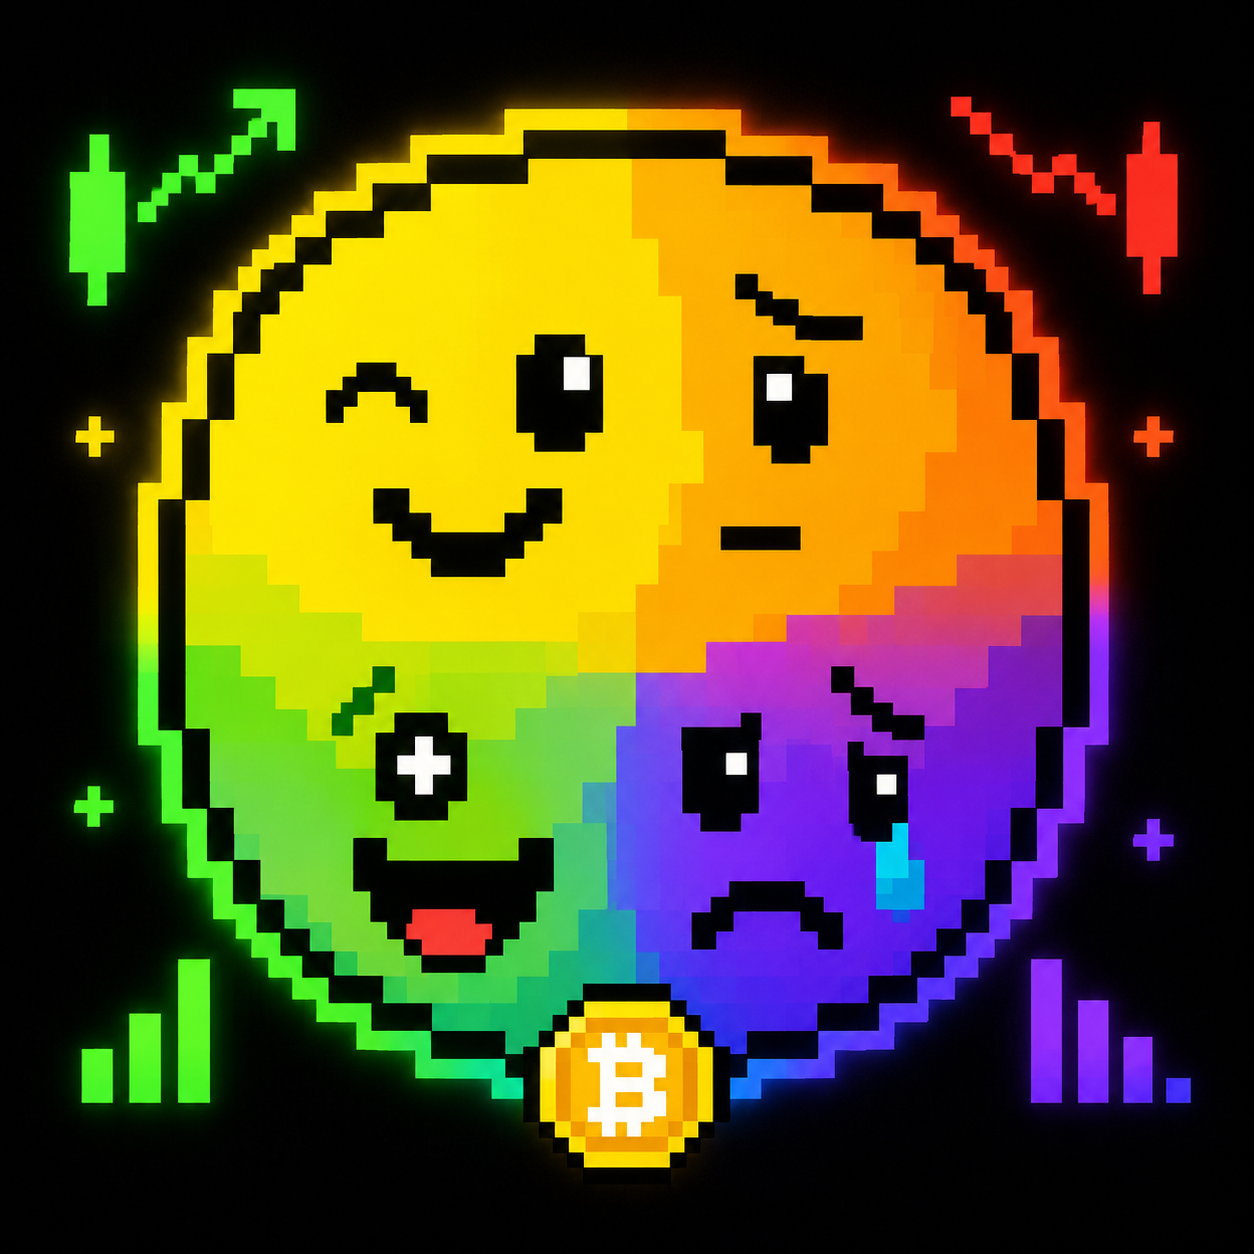
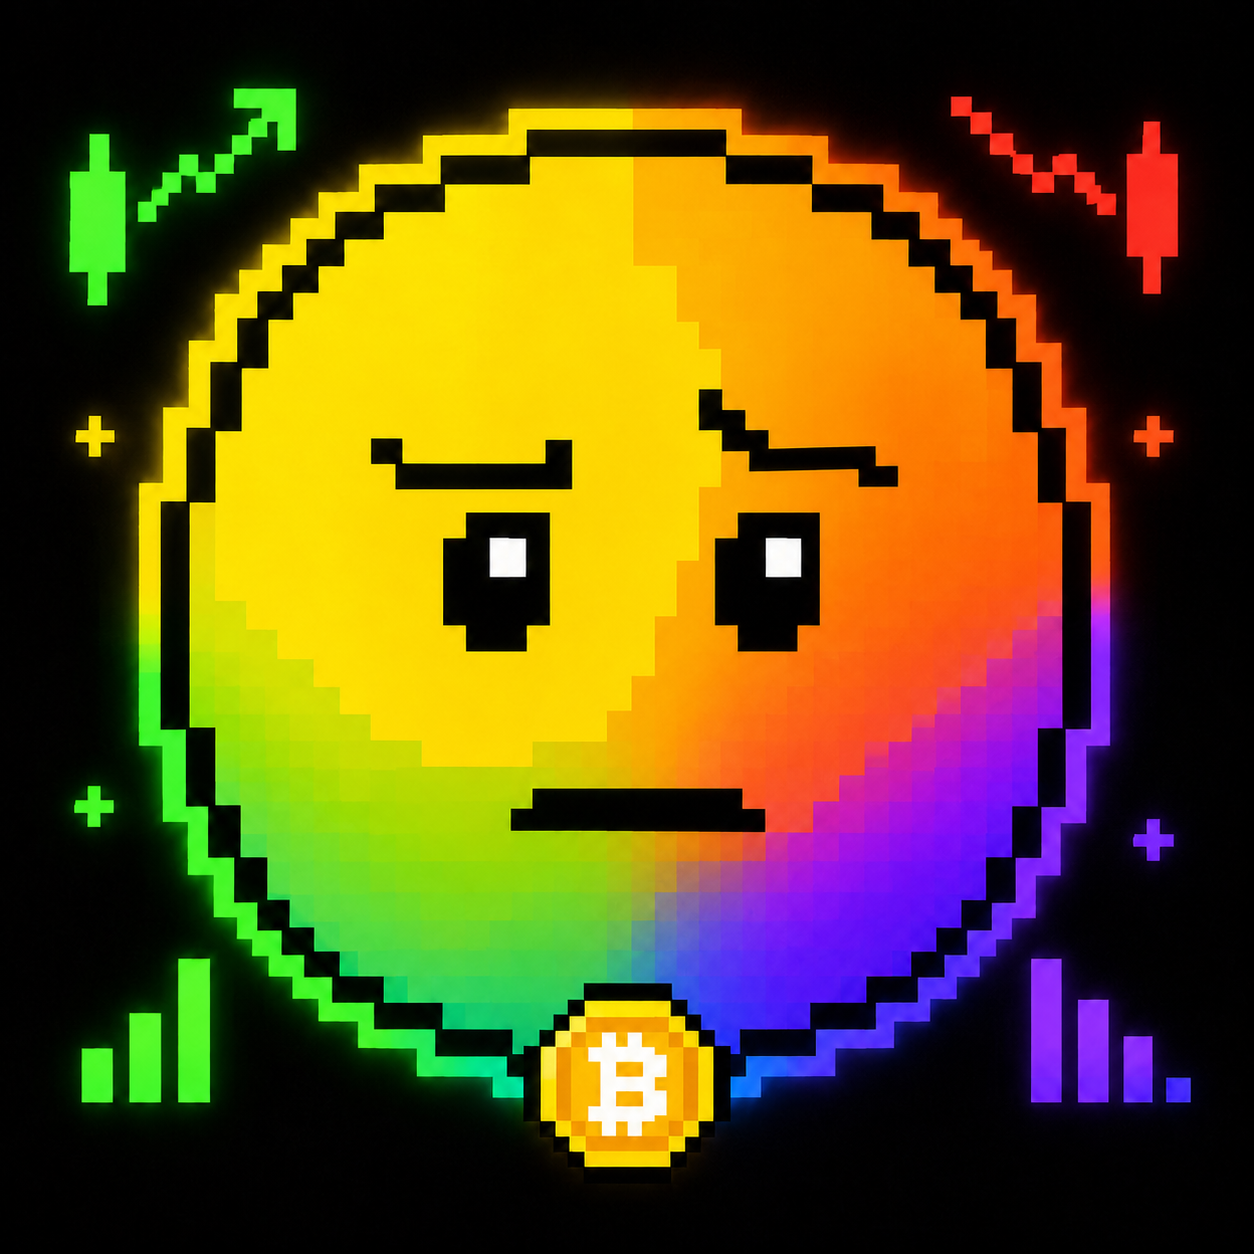
Fix x402 payment integration: root cause was requirements.txt pulling in Coinbase's generic x402 package which shadowed okxweb3-app-x402's vendored OKX-specific classes. Request evm/fastapi extras from okxweb3-app-x402 itself instead. Docs updated with enable/verify steps

diff --git a/app/x402.py b/app/x402.py
@@ -7,11 +7,24 @@ This wraps the /sentiment route with OKX's PaymentMiddlewareASGI, which:
   - on success, lets the request through to the real handler and attaches
     a PAYMENT-RESPONSE header with the settlement receipt
 
-NOT LIVE-TESTED: `okxweb3-app-x402` requires Python >=3.11, and the sandbox
-this was built in only has Python 3.10 available, so the package could not
-be installed or exercised locally. Vercel's default Python runtime is 3.12,
-so it should install fine there - but you need to verify the actual paid
-flow works end-to-end after deploying (see README).
+HISTORY: this was previously shipped disabled after an
+"ImportError: cannot import name 'OKXAuthConfig' from 'x402.http'" that we
+misdiagnosed as `okxweb3-app-x402` on PyPI actually being a different,
+unrelated Coinbase package with no OKX-specific classes. Re-reading OKX's
+actual Python SDK reference (web3.okx.com/onchainos/dev-docs/payments/
+sdk-python) confirms OKXAuthConfig/OKXFacilitatorClient/OKXFacilitatorConfig
+are real, current, documented exports - this code below matches that spec
+exactly. The real bug was in requirements.txt: a separately-added
+`x402[evm]` dependency pulled in Coinbase's own generic `x402` package,
+which shadowed the OKX-specific `x402` module vendored inside
+okxweb3-app-x402 itself. Fixed by requesting the `evm` extra from
+okxweb3-app-x402 directly instead (see requirements.txt).
+
+NOT LIVE-TESTED FROM THIS SANDBOX: `okxweb3-app-x402` requires Python
+>=3.11, and the sandbox this was built in only has Python 3.10, so the
+package cannot be pip-installed or exercised locally here. Vercel's default
+Python runtime is 3.12, so it installs fine there - verify the actual paid
+flow end-to-end after deploying (see README's testing checklist).
 
 Required env vars when X402_ENABLED=true:
   OKX_API_KEY, OKX_SECRET_KEY, OKX_PASSPHRASE  - from

diff --git a/README.md b/README.md
@@ -96,7 +96,7 @@ app/
   feargreed.py     Fear & Greed Index client (free, keyless)
   twitter.py       X API client with fallback
   scoring.py       The 5-dimension scoring engine (the actual IP)
-  x402.py          Payment gate - STUB, see below
+  x402.py          Payment gate - see x402 section below
 api/index.py       Vercel ASGI entrypoint (re-exports app/main.py's app)
 vercel.json        Vercel build/routing config
 test_smoke.py      End-to-end test using fixture data (mocks all 3 external APIs)
@@ -181,43 +181,62 @@ Other Python hosts (Render, Fly.io, Railway) also work if you'd rather
 run `uvicorn app.main:app` directly instead of the Vercel adapter —
 just ignore `vercel.json`/`api/` in that case.
 
-## x402 payment integration — attempted, currently blocked, shipping free
+## x402 payment integration
 
-`app/x402.py` was written to wrap `POST /sentiment` with what OKX's docs
-describe as their official seller SDK (`okxweb3-app-x402`'s
-`PaymentMiddlewareASGI`, with `OKXAuthConfig`/`OKXFacilitatorClient` for
-verify+settle against OKX's facilitator on X Layer).
+`app/x402.py` wraps `POST /sentiment` with OKX's official seller SDK
+(`okxweb3-app-x402`'s `PaymentMiddlewareASGI`, with
+`OKXAuthConfig`/`OKXFacilitatorClient` for verify+settle against OKX's
+facilitator on X Layer). This is now believed working — see the fix
+below — but hasn't been exercised against a real Buyer payment yet, so
+treat "enabled" as "should work per spec" until you've confirmed a real
+paid call settles.
 
-**This does not currently work, and the reason is worth recording.**
-`pip install okxweb3-app-x402` resolves to a PyPI package whose metadata
-lists **Coinbase** as author and `github.com/coinbase/x402` as its
-homepage — i.e. it's the generic, network-agnostic x402 protocol library,
-not an OKX-specific facilitator wrapper. The `OKXAuthConfig` /
-`OKXFacilitatorClient` / `OKXFacilitatorConfig` classes described in
-OKX's own SDK reference docs do not exist in this package
-(`ImportError: cannot import name 'OKXAuthConfig' from 'x402.http'`).
-Either OKX distributes their real facilitator SDK a different way (a
-private index, something unlocked after dev-portal signup, a differently
--named package), or the docs describe something not yet matched by what's
-publicly installable. This was not resolved before the deadline.
+**Earlier failure, and the actual root cause.** This previously shipped
+disabled after `ImportError: cannot import name 'OKXAuthConfig' from
+'x402.http'`, which we misdiagnosed as `okxweb3-app-x402` on PyPI being
+an unrelated, generic Coinbase package with no OKX-specific classes.
+Re-reading OKX's real Python SDK reference
+(`web3.okx.com/onchainos/dev-docs/payments/sdk-python`) shows
+`OKXAuthConfig` / `OKXFacilitatorClient` / `OKXFacilitatorConfig` are
+real, current, documented exports — the code in `app/x402.py` matches
+that spec exactly and was correct all along.
 
-**Current behavior**: `x402.build_middleware()` is wrapped in a try/except
-in `app/main.py` specifically so this kind of failure can't take down the
-whole service — if it throws, the app logs it, exposes the real exception
-via `GET /health`'s `x402_error` field (faster to debug than digging
-through Vercel's log tab), and **falls back to serving `/sentiment` for
-free** rather than 500ing every route. Practically: leave
-`X402_ENABLED=false` in your deploy env vars and register the ASP as
-**free** — free A2MCP services are explicitly supported per the OKX.AI
-tutorial, and this can be revisited and flipped on later without
-re-registering from scratch.
+The real bug was in `requirements.txt`: alongside `okxweb3-app-x402` we
+had separately added `x402[evm]` to fix an unrelated `ImportError: EVM
+mechanism requires ethereum packages` error. That pulled in **Coinbase's
+own, separately-published `x402` PyPI package**, which installs its own
+`x402.http` module without the OKX-specific classes — shadowing the copy
+`okxweb3-app-x402` vendors internally at `_vendor/x402/...` (visible in
+the original traceback). Fixed by requesting the `evm` extra **from
+okxweb3-app-x402 itself** (`okxweb3-app-x402[evm,fastapi]==0.1.1` — it
+ships its own `evm`/`fastapi` extras per its PyPI "Provides-Extra" list)
+instead of installing a second, conflicting top-level `x402` package.
 
-**If you pick this back up later**: don't restart from OKX's Python SDK
-reference doc as ground truth — it didn't match the real package. Instead
-start from whatever the OKX Developer Portal actually hands you after
-signup (real package name, real code samples), or from
-`github.com/coinbase/x402`'s own Python folder if a generic (non-OKX
--specific) facilitator turns out to be sufficient.
+**To actually enable it**, set these in Vercel env vars:
+
+```
+X402_ENABLED=true
+OKX_API_KEY=...        # from https://web3.okx.com/onchainos/dev-portal
+OKX_SECRET_KEY=...
+OKX_PASSPHRASE=...
+X402_RECEIVING_ADDRESS=0x...   # your Agentic Wallet EVM address
+X402_PRICE_USDC=0.5
+```
+
+Redeploy, then check `GET /health` — `x402_status` should read
+`"enabled"`, not `"failed_fallback_free"`. If it's the latter,
+`x402_error` has the real exception. Then confirm `POST /sentiment`
+without a payment header returns `402` with a `PAYMENT-REQUIRED` header,
+and — the part that actually proves it "goes through" — run a real paid
+call from a Buyer (Agentic Wallet) and confirm you get `200` back with a
+`PAYMENT-RESPONSE` settlement receipt, not just that the 402 challenge
+looks right.
+
+**Note on Python version**: `okxweb3-app-x402` requires Python >=3.11
+and could not be pip-installed or exercised in the build sandbox (Python
+3.10) — this fix is based on re-reading the official docs, not a local
+test run. Vercel's default Python runtime is 3.12, so it should install
+there without issue, but the actual paid flow needs verifying live.
 
 ## Registering as an ASP on OKX.AI
 
@@ -245,7 +264,8 @@ is deployed and reachable:
 - Token resolution (`coingecko.resolve_coin_id`) does simple ticker
   matching; ambiguous tickers (e.g. multiple coins named "SOL"-adjacent)
   could resolve to the wrong coin. Fine for a demo, worth hardening later.
-- x402 verification is a stub (see above) - the most important thing to
-  finish next if this needs to be a real paid listing.
+- x402 payment gate should now work per OKX's documented SDK spec (see
+  above) but hasn't been confirmed against a real settled payment yet -
+  do that before relying on it for a paid listing.
 - CoinGecko free tier has rate limits; under real load you'd want a
   CoinGecko API key or caching layer.